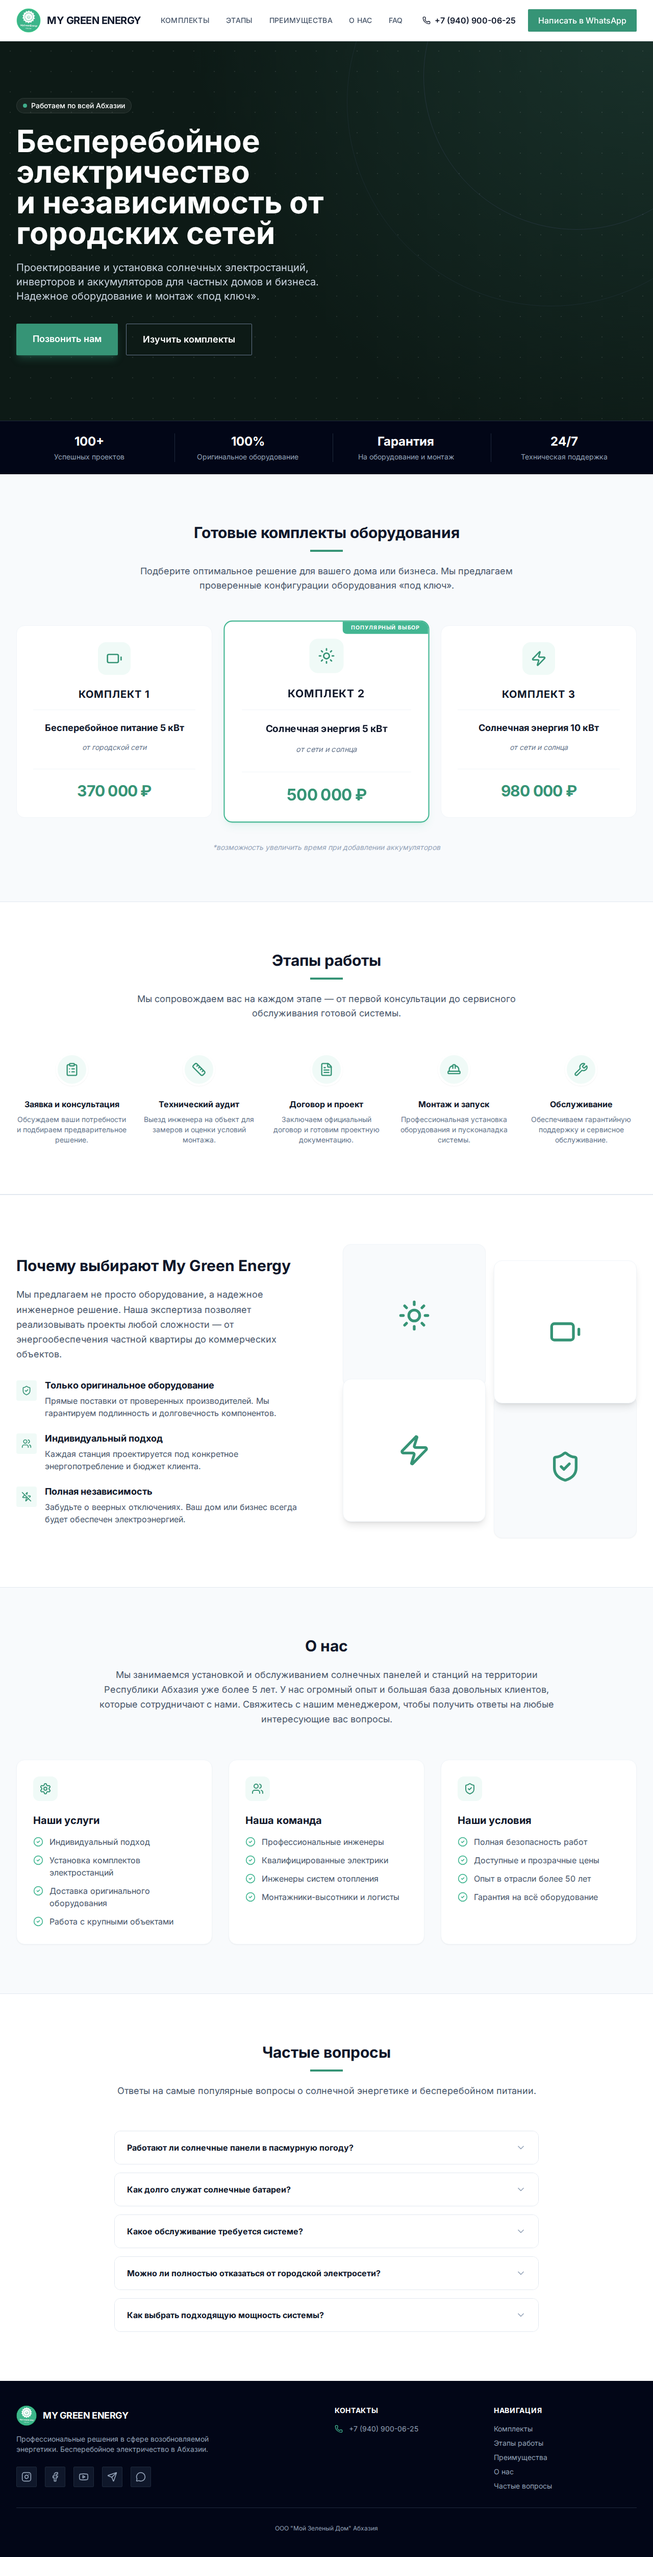
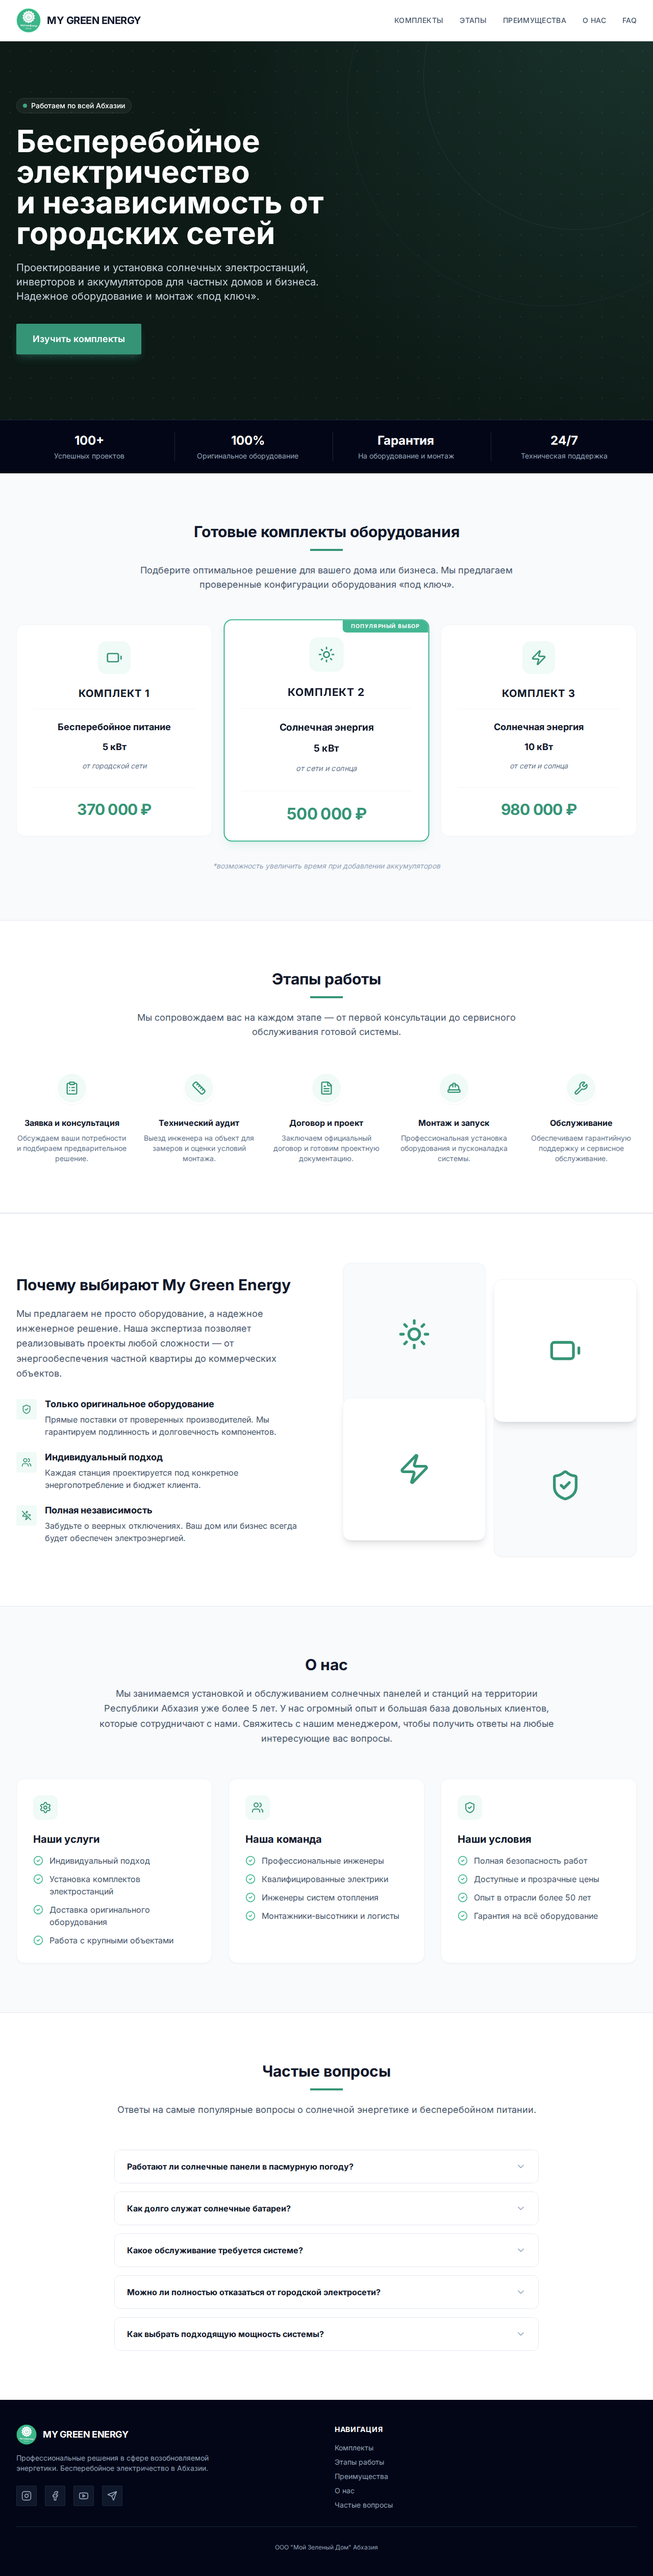
Remove phone number +7 (940) 900-06-25 and reformat equipment kits
- Removed all occurrences of the phone number and associated links from header, hero, and footer.
- Updated equipment kit blocks in #services section to display power rating (kW) as a separate centered paragraph.

diff --git a/index.html b/index.html
@@ -36,16 +36,6 @@
                     <a href="#faq" class="text-slate-600 hover:text-brand-600 font-medium transition-colors text-sm uppercase tracking-wide">FAQ</a>
                 </nav>
 
-                <!-- Контакты и кнопка (Десктоп) -->
-                <div class="hidden md:flex items-center gap-6">
-                    <a href="tel:+79409000625" class="text-corporate-900 font-semibold hover:text-brand-600 transition-colors flex items-center gap-2">
-                        <i data-lucide="phone" class="w-4 h-4"></i>
-                        +7 (940) 900-06-25
-                    </a>
-                    <a href="https://wa.me/79409000625" target="_blank" class="bg-brand-600 text-white px-5 py-2.5 rounded-sm font-medium hover:bg-brand-700 transition-colors shadow-sm">
-                        Написать в WhatsApp
-                    </a>
-                </div>
 
                 <!-- Кнопка мобильного меню -->
                 <div class="md:hidden flex items-center">
@@ -64,10 +54,6 @@
                 <a href="#advantages" class="block px-3 py-3 text-base font-medium text-slate-700 hover:text-brand-600 hover:bg-slate-50">Преимущества</a>
                 <a href="#about" class="block px-3 py-3 text-base font-medium text-slate-700 hover:text-brand-600 hover:bg-slate-50">О нас</a>
                 <a href="#faq" class="block px-3 py-3 text-base font-medium text-slate-700 hover:text-brand-600 hover:bg-slate-50">Частые вопросы</a>
-                <div class="border-t border-slate-100 mt-4 pt-4">
-                    <a href="tel:+79409000625" class="block px-3 py-2 text-base font-bold text-corporate-900">+7 (940) 900-06-25</a>
-                    <a href="https://wa.me/79409000625" class="block mt-2 text-center bg-brand-600 text-white px-5 py-3 rounded-sm font-medium">Связаться в WhatsApp</a>
-                </div>
             </div>
         </div>
     </header>
@@ -90,10 +76,7 @@
                     Проектирование и установка солнечных электростанций, инверторов и аккумуляторов для частных домов и бизнеса. Надежное оборудование и монтаж «под ключ».
                 </p>
                 <div class="flex flex-col sm:flex-row gap-4">
-                    <a href="tel:+79409000625" class="bg-brand-600 text-white text-center px-8 py-4 rounded-sm font-semibold text-lg hover:bg-brand-500 hover:scale-[1.02] transition-all duration-300 shadow-lg shadow-brand-600/30">
-                        Позвонить нам
-                    </a>
-                    <a href="#services" class="bg-transparent border border-slate-500 text-white text-center px-8 py-4 rounded-sm font-semibold text-lg hover:bg-slate-800 hover:scale-[1.02] transition-all duration-300">
+                    <a href="#services" class="bg-brand-600 text-white text-center px-8 py-4 rounded-sm font-semibold text-lg hover:bg-brand-500 hover:scale-[1.02] transition-all duration-300 shadow-lg shadow-brand-600/30">
                         Изучить комплекты
                     </a>
                 </div>
@@ -145,7 +128,8 @@
                     </div>
                     <h3 class="text-xl font-bold text-corporate-900 mb-6 pb-4 border-b border-slate-100 uppercase tracking-wider">Комплект 1</h3>
                     <div class="space-y-4 mb-8">
-                        <p class="font-bold text-lg text-corporate-900 leading-tight">Бесперебойное питание 5 кВт</p>
+                        <p class="font-bold text-lg text-corporate-900 leading-tight">Бесперебойное питание</p>
+                        <p class="font-bold text-lg text-corporate-900 leading-tight">5 кВт</p>
                         <p class="text-slate-500 text-sm italic">от городской сети</p>
                     </div>
                     <div class="pt-6 border-t border-slate-100">
@@ -163,7 +147,8 @@
                     </div>
                     <h3 class="text-xl font-bold text-corporate-900 mb-6 pb-4 border-b border-slate-100 uppercase tracking-wider">Комплект 2</h3>
                     <div class="space-y-4 mb-8">
-                        <p class="font-bold text-lg text-corporate-900 leading-tight">Солнечная энергия 5 кВт</p>
+                        <p class="font-bold text-lg text-corporate-900 leading-tight">Солнечная энергия</p>
+                        <p class="font-bold text-lg text-corporate-900 leading-tight">5 кВт</p>
                         <p class="text-slate-500 text-sm italic">от сети и солнца</p>
                     </div>
                     <div class="pt-6 border-t border-slate-100">
@@ -178,7 +163,8 @@
                     </div>
                     <h3 class="text-xl font-bold text-corporate-900 mb-6 pb-4 border-b border-slate-100 uppercase tracking-wider">Комплект 3</h3>
                     <div class="space-y-4 mb-8">
-                        <p class="font-bold text-lg text-corporate-900 leading-tight">Солнечная энергия 10 кВт</p>
+                        <p class="font-bold text-lg text-corporate-900 leading-tight">Солнечная энергия</p>
+                        <p class="font-bold text-lg text-corporate-900 leading-tight">10 кВт</p>
                         <p class="text-slate-500 text-sm italic">от сети и солнца</p>
                     </div>
                     <div class="pt-6 border-t border-slate-100">
@@ -506,20 +492,7 @@
                         <a href="https://t.me/MyGreenEnergy#" target="_blank" class="w-10 h-10 rounded-sm bg-corporate-900 flex items-center justify-center hover:bg-sky-400 hover:text-white transition-colors border border-slate-800 hover:border-sky-400">
                             <i data-lucide="send" class="w-5 h-5"></i>
                         </a>
-                        <a href="https://api.whatsapp.com/send/?phone=79409000625&text&type=phone_number&app_absent=0" target="_blank" class="w-10 h-10 rounded-sm bg-corporate-900 flex items-center justify-center hover:bg-brand-600 hover:text-white transition-colors border border-slate-800 hover:border-brand-600">
-                            <i data-lucide="message-circle" class="w-5 h-5"></i>
-                        </a>
                     </div>
-                </div>
-
-                <div>
-                    <h4 class="text-white font-bold mb-4 uppercase text-sm tracking-wider">Контакты</h4>
-                    <ul class="space-y-3 text-sm">
-                        <li class="flex items-start gap-3">
-                            <i data-lucide="phone" class="w-4 h-4 text-brand-500 mt-0.5 shrink-0"></i>
-                            <a href="tel:+79409000625" class="hover:text-white transition-colors">+7 (940) 900-06-25</a>
-                        </li>
-                    </ul>
                 </div>
 
                 <div>
